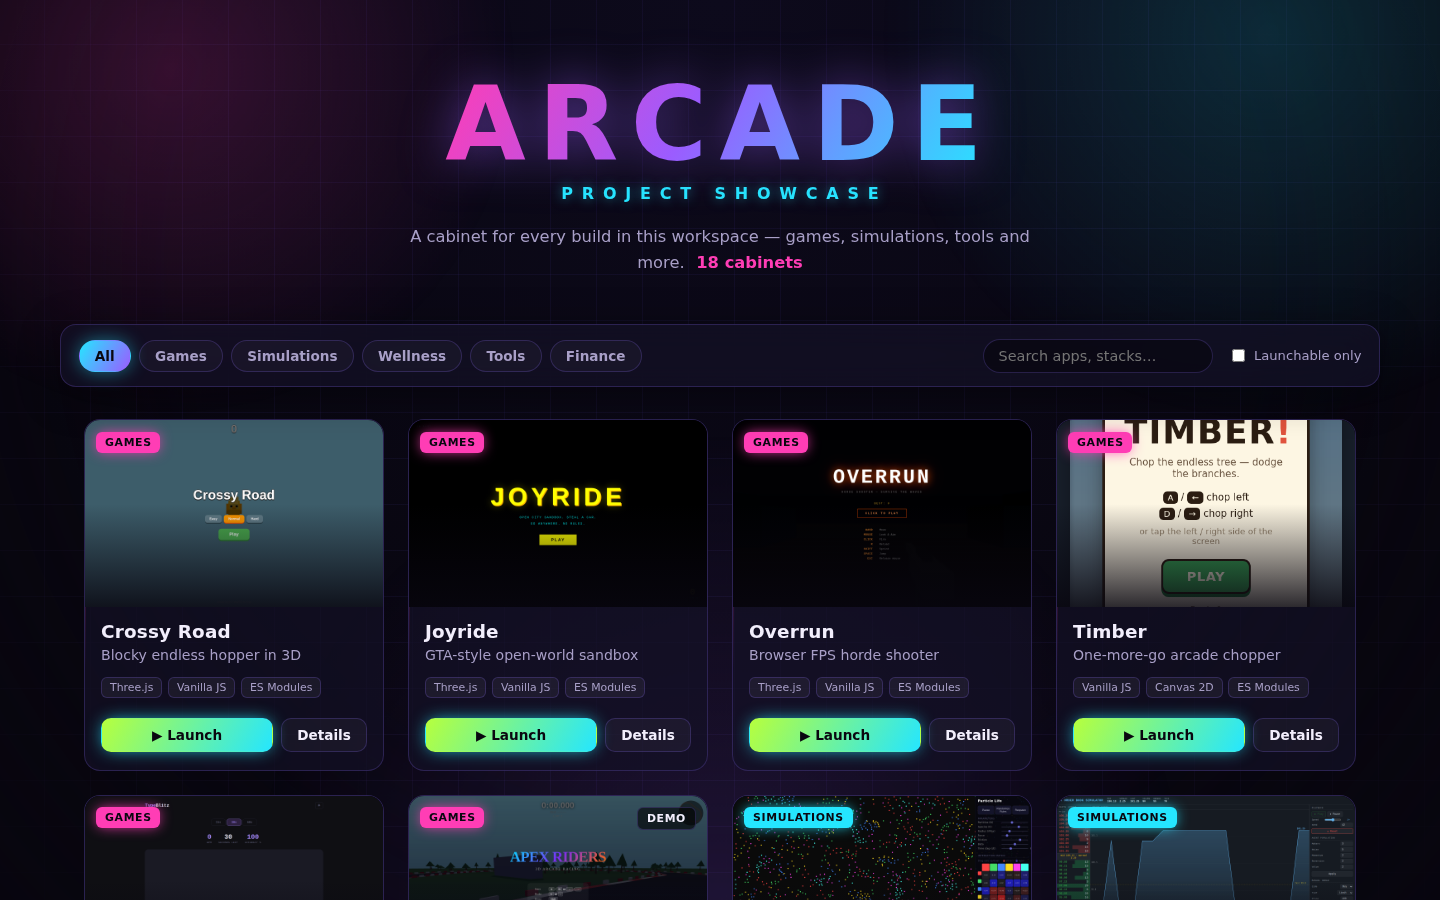
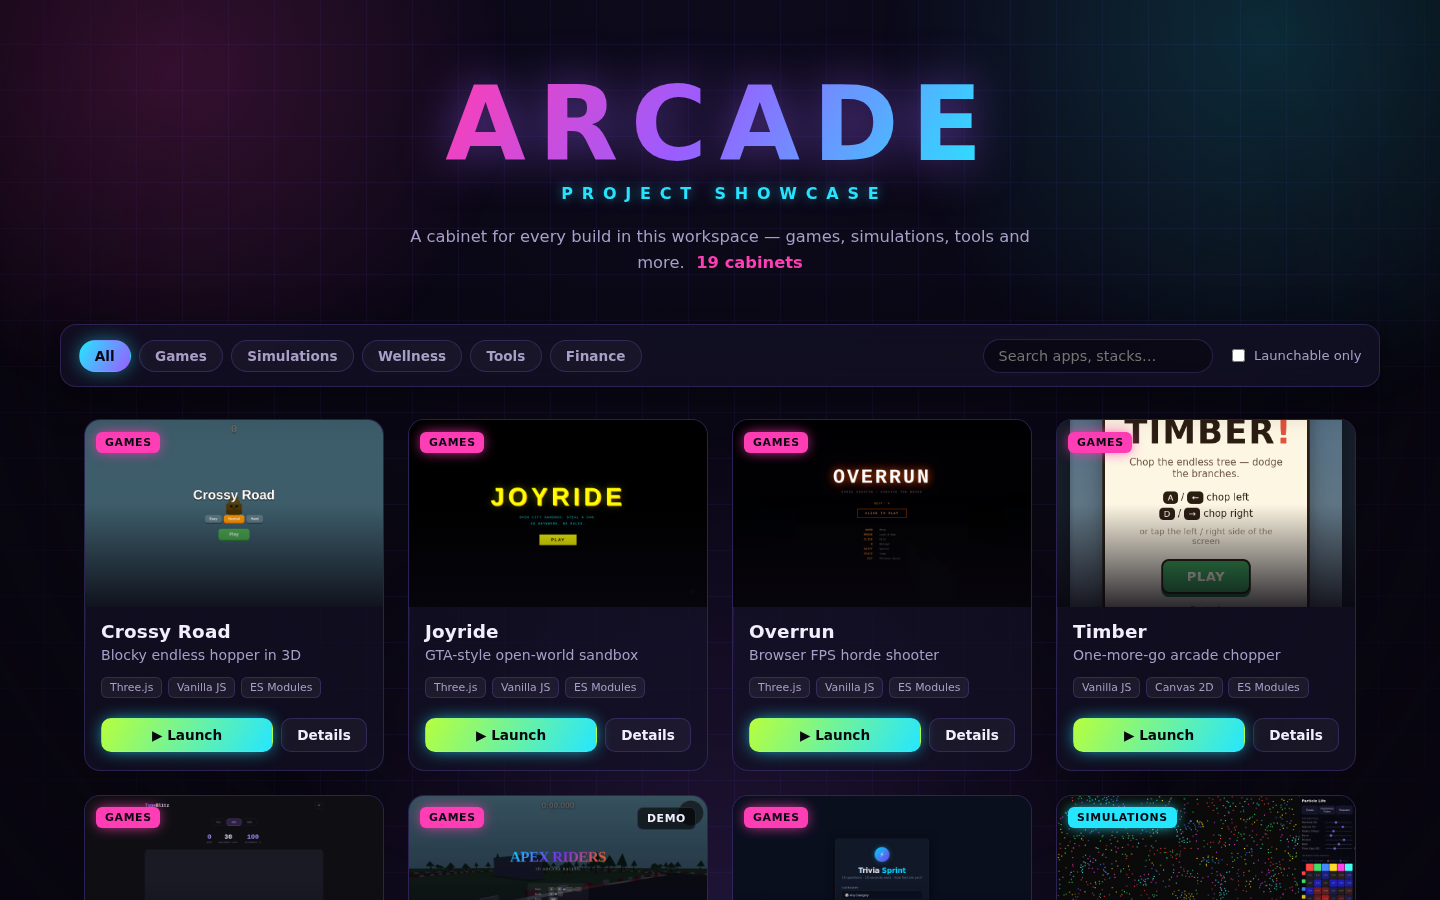
Add trivia-sprint to the showcase
Include the newly merged trivia-sprint game as a launchable cabinet and
refresh the showcase grid screenshot (now 19 projects).

Changed region(s): [[0.5, 0.8711, 0.9375, 1.0]]

diff --git a/showcase/data/projects.js b/showcase/data/projects.js
@@ -101,6 +101,21 @@ export const projects = [
     screenshots: ['menu', 'racing', 'drifting'].map((f) => shot('apex-riders', `${f}.png`)),
   },
   {
+    slug: 'trivia-sprint',
+    name: 'Trivia Sprint',
+    tagline: 'Beat-the-clock trivia game',
+    description:
+      'A fast-paced trivia game — 10 questions, 10 seconds each. Pick a category and difficulty, race an animated ring timer, and beat your personal best. Questions come live from the Open Trivia DB, with a built-in fallback bank when the API is unreachable.',
+    stack: ['Vanilla JS', 'CSS3', 'Open Trivia DB API'],
+    category: 'Games',
+    status: 'complete',
+    runType: 'static',
+    launchable: true,
+    runCommand: 'cd trivia-sprint && python -m http.server 8080',
+    sourceHref: '../trivia-sprint/',
+    screenshots: ['start', 'game', 'streak', 'after-play'].map((f) => shot('trivia-sprint', `${f}.png`)),
+  },
+  {
     slug: 'particle-life',
     name: 'Particle Life',
     tagline: 'Emergent particle simulation',
